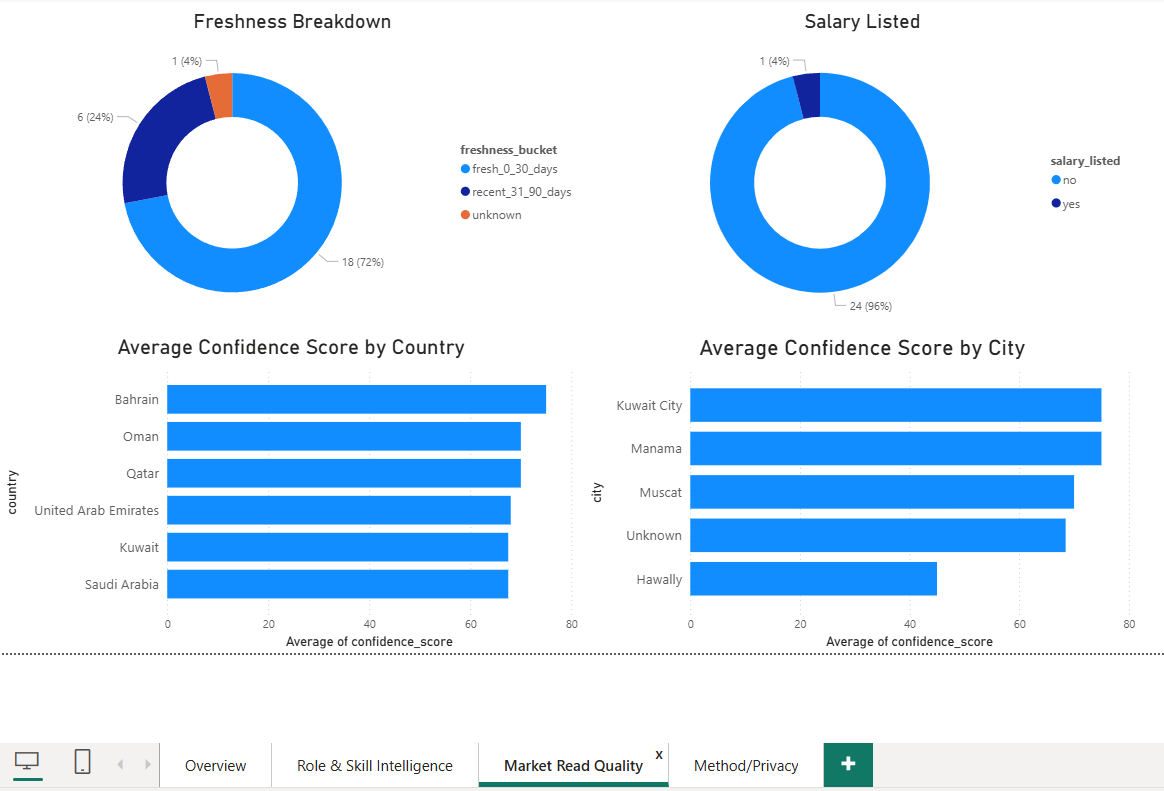
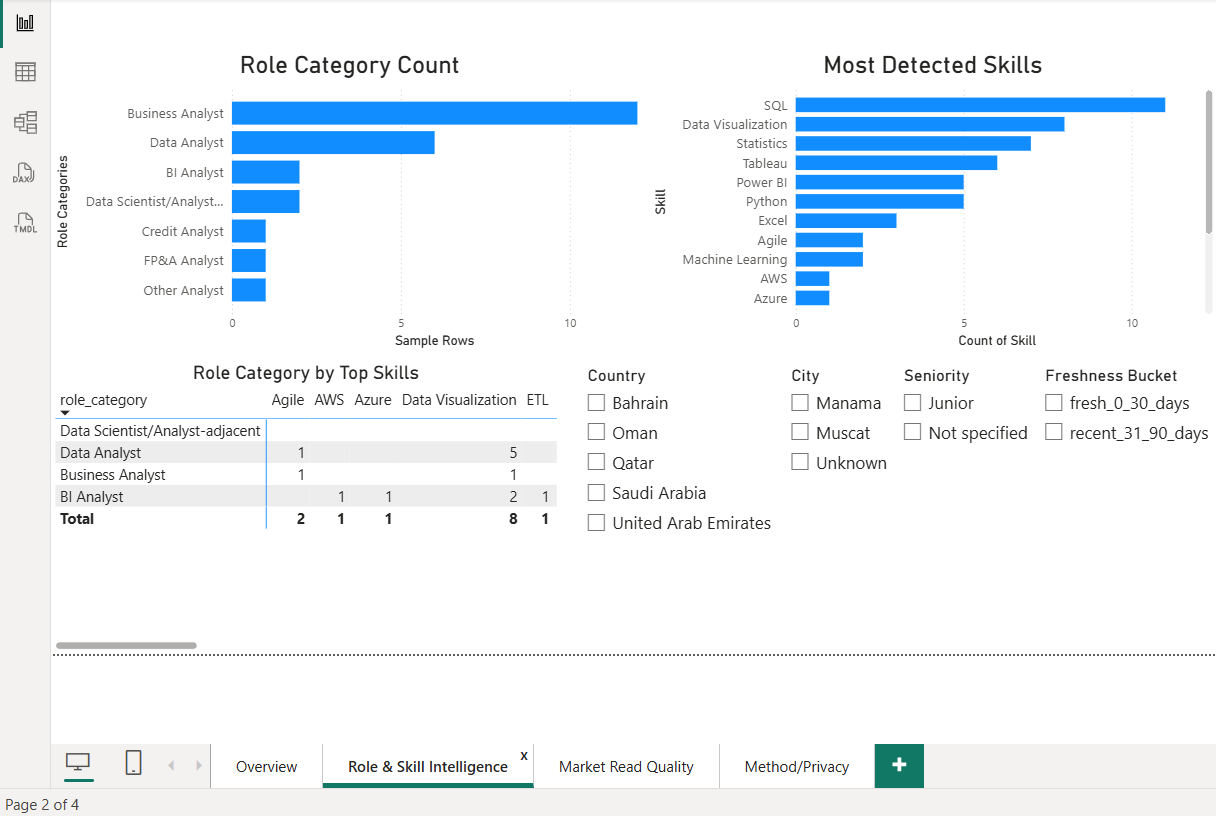
Update Power BI sample dashboard assets

diff --git a/index.html b/index.html
@@ -102,9 +102,9 @@
       <section class="section powerbi-section" id="powerbi" aria-labelledby="powerbi-title">
         <div class="section-heading">
           <p class="eyebrow">Power BI dashboard</p>
-          <h2 id="powerbi-title">Power BI public data dashboard.</h2>
+          <h2 id="powerbi-title">Power BI Public Sample Dashboard.</h2>
           <p>
-            Built Power BI dashboard using anonymized public data to demonstrate KPI reporting, role/skill segmentation, freshness analysis, confidence scoring, and privacy-aware data visualization.
+            Built from the 25-row anonymized public sample to demonstrate KPI reporting, role/skill segmentation, freshness analysis, confidence scoring, and privacy-aware dashboard design. The full working dataset remains private.
           </p>
         </div>
 
@@ -117,7 +117,7 @@
         </figure>
 
         <div class="proof-actions powerbi-actions">
-          <a class="proof-link" href="assets/mysam-dashboard.pbix" download>Download Power BI file</a>
+          <a class="proof-link" href="assets/GCC_Analyst_Market_Tracker_Public_Sample_Dashboard.pbix" download>Download Power BI file</a>
         </div>
       </section>
 